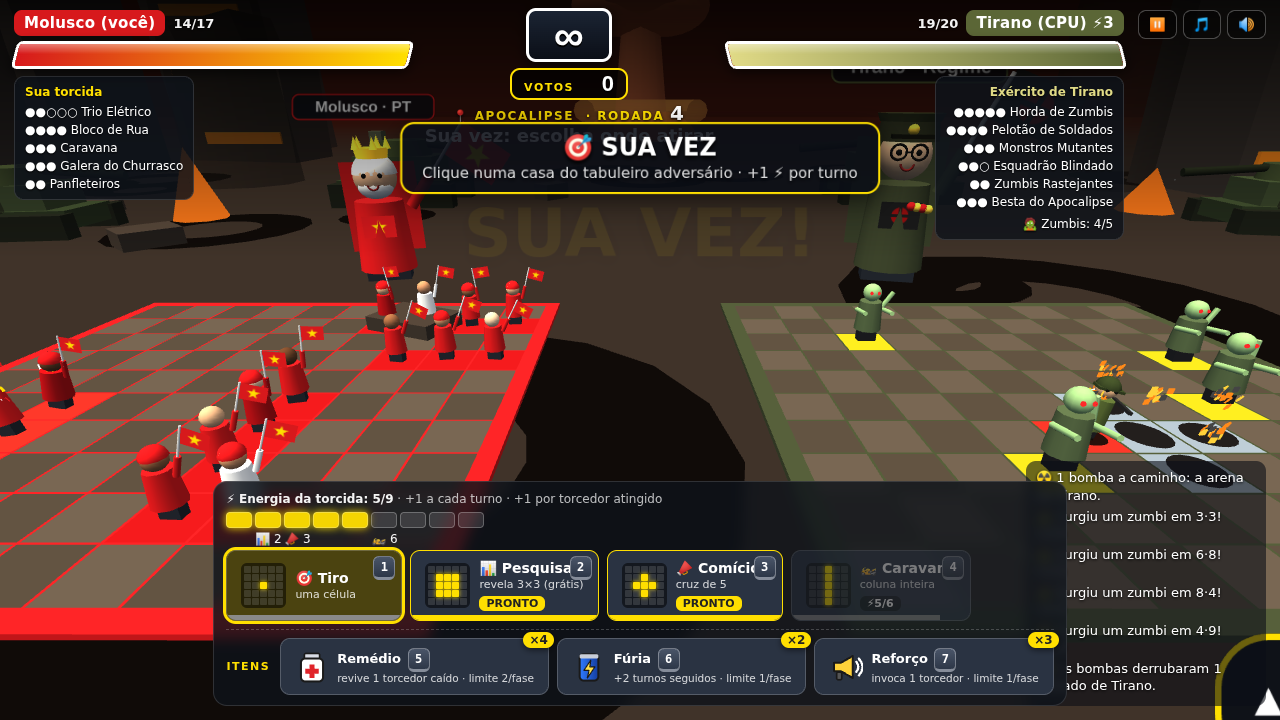
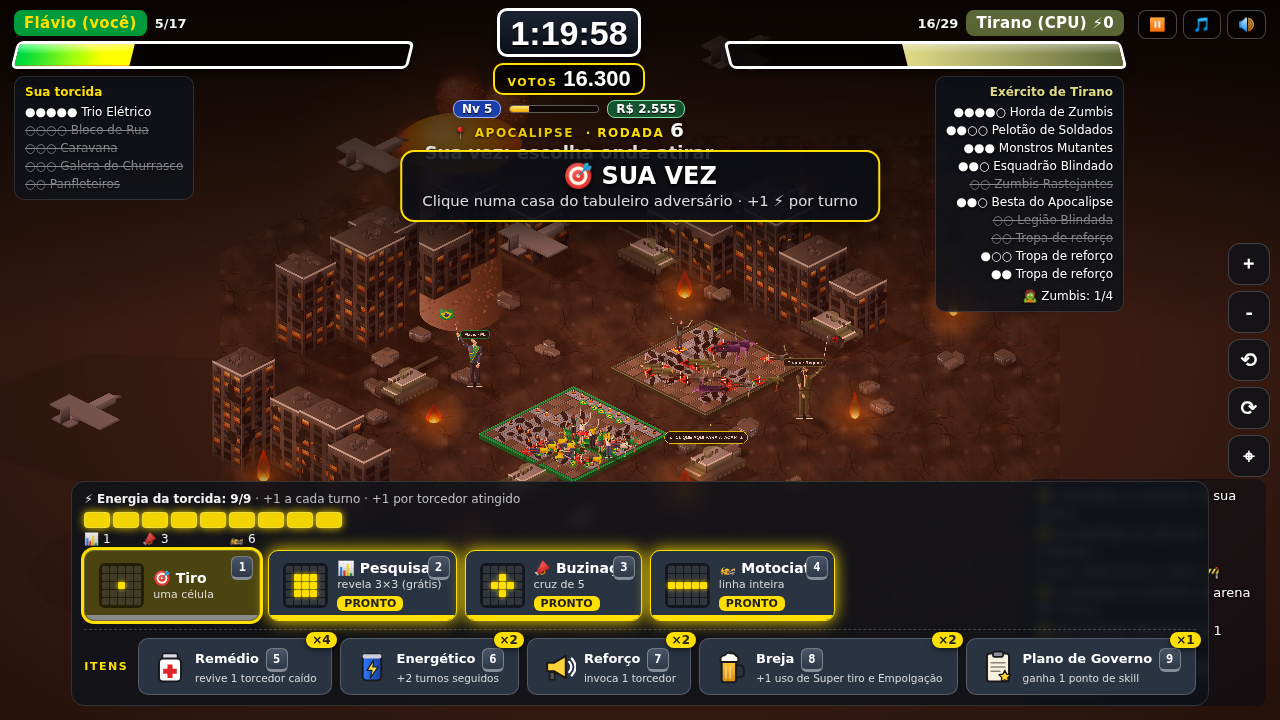
README do remake: novidades, final, cronômetro, itens e novas imagens

diff --git a/README.md b/README.md
@@ -6,11 +6,14 @@
 
 <p align="center">
   Batalha naval das <b>eleições 2026</b>, em 2.5D isométrico com visual realista, direto no navegador.<br>
-  Uma campanha em 7 fases, 2 trilhas, 7 cenários do Brasil, um chefão final e um modo NG+ apocalíptico.
+  Uma campanha em 7 fases, 2 trilhas, 7 cenários do Brasil, um chefão final, um final cinematográfico e um modo NG+ apocalíptico.<br>
+  <sub>Este é o <b>REMAKE</b> do <a href="https://github.com/rpossan/super-presida-batalha">Super Presida Batalha original</a>.</sub>
 </p>
 
 <p align="center">
-  <a href="https://rpossan.github.io/super-presida-batalha/"><b>▶ JOGAR AGORA</b></a>
+  <a href="https://rpossan.github.io/super-batalha-presida-remake/"><b>▶ JOGAR AGORA</b></a>
+  &nbsp;·&nbsp;
+  <a href="#-o-remake">🆕 O que mudou no remake</a>
   &nbsp;·&nbsp;
   <a href="#-aviso-legal-e-isenção-de-uso-de-imagem">Aviso legal</a>
   &nbsp;·&nbsp;
@@ -26,6 +29,26 @@
 > mesmas regras, mesmos poderes, mesma quantidade de fases, adversários e chefão, e uma conclusão para cada trilha.
 > O jogo **não faz propaganda, não pede voto e não toma partido**. Nenhum lado é "o certo" ou "o errado":
 > é só uma brincadeira de estratégia com humor.
+
+---
+
+## 🆕 O remake
+
+Tudo foi refeito sobre a mesma ideia do [jogo original](https://github.com/rpossan/super-presida-batalha), agora em **2.5D isométrico** com [Phaser 4](https://phaser.io/):
+
+| Original | Remake |
+|---|---|
+| Visual simples em 3D de blocos | **Pessoas realistas e articuladas**, cenários com texturas, sombras projetadas e árvores ao vento, veículos e efeitos melhores |
+| Câmera fixa | **Zoom** (roda, pinça, `+`/`-`), **arrastar** para mover e **giro da vista** em 4 ângulos (`Q`/`E`) |
+| Jogador sem progressão | **Progressão de RPG:** votos viram experiência (níveis 1 a 15), pontos de skill, grana e saque, com tela de resultados e *LEVEL UP!* |
+| Skills simples | **Skills com 3 níveis**, trava por fase vencida e ameaça que cresce com o seu poder |
+| 3 itens | **5 itens** (Remédio, Energético, Reforço, **Breja** e **Plano de Governo**), só na loja ou no saque |
+| Reações genéricas | **Vozes e gritos** de quem é atingido (falas em pt-BR) e gemidos nos zumbis |
+| Trilha única | **Uma música por cenário**, gerada por código |
+| Final curto | **Final cinematográfico** de mais de 2 minutos, com a câmera na festa, fogos, a cena da posse, a linha do tempo da campanha e créditos |
+| Sem cronômetro | **Cronômetro de jogo** que registra quanto tempo você levou para zerar, com melhor tempo e tempo por fase |
+
+<p align="center"><img src="docs/img/skills_batalha.png" alt="Batalha com skills e itens" width="800"></p>
 
 ---
 
@@ -52,8 +75,10 @@ quando fazer uma pesquisa para descobrir onde o adversário se esconde e qual po
 | 🌎 **7 cenários do Brasil** | Av. Paulista, Aeroporto de Porto Alegre, Cristo Redentor, Sertão, Amazônia, Balneário Camboriú e Praça dos Três Poderes. |
 | ⚠ **Perigos de cenário** | Bala perdida, fogo no sertão e chuva de flechas na floresta, em quantidade equilibrada ao nível. |
 | 👑 **Chefões únicos** | Sem torcida, com pontos de vida, que mudam de casa a cada acerto e reagem aos seus erros. |
-| 🛒 **Loja, itens e skills** | Compre itens com a grana do saque e aprenda skills com pontos de nível (Empolgação, Super tiro, Guarda-chuva, Instituto de pesquisa, Fôlego). [Veja a seção](#-itens-e-skills). |
+| 🛒 **Loja, itens e skills** | Compre itens com a grana do saque e aprenda skills com pontos de nível (Empolgação, Super tiro, Guarda-chuva, Instituto de pesquisa, Fôlego). [Veja a seção](#-níveis-grana-itens-e-skills). |
+| 🎬 **Final cinematográfico** | Ao vencer o chefão: câmera passeando pela festa com fogos e confete, a cena da posse, a **linha do tempo da sua campanha** (fase a fase, com o tempo de cada uma) e créditos. [Veja a seção](#-o-final). |
 | 🏆 **Nível, votos e recorde** | Votos são experiência (nunca zeram), com tela de resultados e *LEVEL UP!*; combo e recorde pessoal. |
+| ⏱ **Cronômetro de jogo** | O relógio do topo conta o tempo jogado na trilha (pausa e menu não contam, e ele não encerra a partida). Ao zerar, o final mostra o tempo por fase e o melhor tempo. |
 | 🎵 **Trilha sonora própria** | Uma música diferente por cenário (samba, baião, milonga, tambores, marcha…), gerada por código. |
 | 📱 **Funciona no celular** | A câmera acompanha o turno: na sua vez, só a arena do adversário, para dar precisão no toque. |
 
@@ -106,6 +131,33 @@ O chefão é **único, sem torcida, e tem pontos de vida**. A cada acerto ele **
 
 ---
 
+## 🎬 O final
+
+Venceu o chefão? A campanha da sua trilha termina com um **final de mais de 2 minutos** (dá para pular com **Pular ▶**):
+
+1. **A festa na praça:** a câmera do jogo se aproxima da sua torcida, cruza a Praça dos Três Poderes e se afasta, com a torcida vibrando, confete, **fogos de artifício** (inclusive em forma de coração) e legendas.
+2. **A posse:** a cena animada no Planalto, com a rampa, a faixa presidencial (ou o abraço do Flávio com o pai) e fogos por cima.
+3. **A sua jornada:** a **linha do tempo da campanha**, com cada fase vencida, o adversário derrotado e o **tempo gasto em cada uma**, somando o **tempo total**.
+4. **O placar:** votos, recorde de votos e **melhor tempo** da trilha.
+5. **Os créditos**, e o desbloqueio do **NG+: Apocalipse**.
+
+<table>
+  <tr>
+    <td align="center"><img src="docs/img/final_festa.png" width="390"><br><b>A festa na praça</b> · câmera, torcida e fogos</td>
+    <td align="center"><img src="docs/img/final_posse.png" width="390"><br><b>A posse</b> · cena animada no Planalto</td>
+  </tr>
+  <tr>
+    <td align="center"><img src="docs/img/final_jornada.png" width="390"><br><b>A sua jornada</b> · tempo de cada fase</td>
+    <td align="center"><img src="docs/img/final_placar.png" width="390"><br><b>O placar</b> · votos e melhor tempo</td>
+  </tr>
+</table>
+
+### ⏱ Cronômetro de jogo
+O relógio no topo da tela **conta o tempo jogado na trilha** (posicionando e batalhando). Pausa, menu e tela de resultados **não contam**, e o relógio **nunca encerra a partida**:
+ele existe para você medir em quanto tempo consegue zerar o jogo. O tempo de cada fase fica salvo junto com o progresso, e o **melhor tempo** de cada trilha é guardado no navegador.
+
+---
+
 ## ☢ NG+: Apocalipse
 
 Zerou a campanha e viu os créditos? Um ditador surge das cinzas. **O NG+ é desbloqueado depois dos créditos** e é a fase mais difícil do jogo.
@@ -122,7 +174,7 @@ Zerou a campanha e viu os créditos? Um ditador surge das cinzas. **O NG+ é des
 
 <p align="center"><img src="docs/img/ng_batalha.png" alt="Batalha do NG+" width="760"></p>
 
-> A dificuldade acompanha a **ameaça** (veja [Ameaça e equilíbrio](#-ameaça-e-equilíbrio)): quanto mais você investe em skills, mais exércitos, bombas e zumbis o Tirano manda.
+> A dificuldade acompanha a **ameaça** (veja [Ameaça](#-ameaça)): quanto mais você investe em skills, mais exércitos, bombas e zumbis o Tirano manda.
 
 ---
 
@@ -134,6 +186,8 @@ A progressão é de RPG: **votos são experiência**, a **grana** vem do saque e
 - Cada torcedor adversário derrubado rende **votos** (com combo, até **8x**). Os votos **nunca zeram**, nem quando você perde.
 - Ao fim de cada batalha aparece a **tela de resultados** (estilo menu de vitória de RPG clássico): os votos contam, a barra enche,
   o jogador sobe de nível com a animação **LEVEL UP!** e ganha **pontos de skill**. Vencer dá ainda um **bônus de votos**.
+<p align="center"><img src="docs/img/resultados.png" alt="Tela de resultados estilo RPG" width="760"></p>
+
 - Níveis de 1 a 15, com experiência acumulada de **1.000, 3.000, 6.000, 10.000, 15.000…** votos (`500 × n × (n+1)`).
 - Cada nível dá **1 ponto de skill** (e **+1 extra** nos níveis 3, 6, 9, 12 e 15): são 20 pontos no total, e maximizar as 5 skills custa 30. É preciso escolher uma *build*.
 
@@ -150,12 +204,14 @@ mas **não há limite de uso por fase**. Usar um item **não gasta o turno**.
 | Item | Atalho | Efeito | Preço |
 |---|---|---|---|
 | 💊 **Remédio** (cruz vermelha) | `5` | revive 1 torcedor caído da sua torcida | R$ 400 |
-| 🥫 **Fúria** (energético) | `6` | turnos contínuos: joga 3 turnos seguidos (o atual + 2), sem o adversário agir | R$ 1.000 |
+| 🥫 **Energético** | `6` | turnos contínuos: joga 3 turnos seguidos (o atual + 2), sem o adversário agir | R$ 1.000 |
 | 📢 **Reforço** (alto-falante) | `7` | invoca 1 torcedor aleatório na sua arena (+1 de vida) | R$ 650 |
+| 🍺 **Breja** | `8` | +1 uso de **Super tiro** e **Empolgação** na fase atual (precisa ter aprendido uma delas) | R$ 500 |
+| 📜 **Plano de Governo** | `9` | ganha **1 ponto de skill** | R$ 2.500 |
 
 No celular os itens ficam num botão único **🎒 Itens** que abre a lista.
 
-<p align="center"><img src="docs/img/loja_skills.png" alt="Loja de skills" width="640"></p>
+<p align="center"><img src="docs/img/loja_itens.png" alt="Loja de itens" width="520">&nbsp;<img src="docs/img/loja_skills.png" alt="Loja de skills" width="520"></p>
 
 ### ⭐ Skills
 Aprendidas com **pontos de skill** e **liberadas pelo nível do jogador**. Depois de aprendida, a skill vale em **todas as fases e cenários**, das duas trilhas.
@@ -186,7 +242,7 @@ Como a progressão agora é mais lenta e o jogo começa sem itens, os números d
 1. Escolha o lado e a fase.
 2. **Posicione** sua torcida (5 grupos) no seu tabuleiro. `R` ou botão direito gira.
 3. Na sua vez, **clique numa casa** do tabuleiro adversário. Cada tiro arremessa um objeto de protesto.
-4. Acerte para ganhar **votos** e **energia**; gaste a energia nos poderes (`1`–`4`) e use os **itens** (`5`–`7`) com sabedoria. Veja [Itens e skills](#-itens-e-skills).
+4. Acerte para ganhar **votos** e **energia**; gaste a energia nos poderes (`1`–`4`) e use os **itens** (`5`–`9`) com sabedoria. Veja [Níveis, grana, itens e skills](#-níveis-grana-itens-e-skills).
 5. Dispersse toda a torcida adversária (ou derrote o chefão) antes que ele faça o mesmo com a sua.
 
 | Poder | Custo | Efeito |
@@ -198,6 +254,8 @@ Como a progressão agora é mais lenta e o jogo começa sem itens, os números d
 
 Energia: **+1 por turno** e **+1 por torcedor atingido**. No celular, a câmera acompanha o turno.
 
+<p align="center"><img src="docs/img/mobile.png" alt="O jogo no celular" width="760"></p>
+
 ### ⏸ Pausa e modo desenvolvedor
 
 - **Pausa:** botão ⏸ no topo (ou `Esc`) congela o jogo e abre o menu com **Continuar**, **Reiniciar a fase** e
@@ -207,7 +265,7 @@ Energia: **+1 por turno** e **+1 por torcedor atingido**. No celular, a câmera 
 
 ## 🛠 Tecnologia
 
-- [`index.html`](index.html) (lógica e interface) + [`js/`](js) (`gfx.js` renderer, `art.js` sprites, `scenery.js` cenários), renderizados com [Phaser 4](https://phaser.io/) via CDN. Sem build, sem servidor.
+- [`index.html`](index.html) (lógica e interface) + [`js/`](js) (`gfx.js` renderer, `art.js` sprites, `scenery.js` cenários), renderizados com [Phaser 4](https://phaser.io/) via CDN. Sem build e sem backend: é só servir arquivos estáticos (por exemplo, no GitHub Pages).
 - Personagens, cenários, músicas, efeitos sonoros e ilustrações são **gerados por código** (canvas 2D, SVG e Web Audio).
 - Progresso salvo no navegador (`localStorage`), sem servidor: veja [Salvamento](#-salvamento-local).
 
@@ -220,7 +278,7 @@ Para rodar localmente, abra o `index.html` no navegador. Para criar um cenário 
 
 O jogo **salva sozinho no seu navegador** (`localStorage`), mesmo hospedado no GitHub Pages. Nada vai para servidor nenhum.
 
-- **O que é salvo:** fases desbloqueadas e vencidas (nas duas trilhas), nível e votos, grana, pontos de skill, skills aprendidas, itens, recorde e as preferências de som e música.
+- **O que é salvo:** fases desbloqueadas e vencidas (nas duas trilhas), nível e votos, grana, pontos de skill, skills aprendidas, itens, **tempo de jogo de cada fase**, recorde (votos e melhor tempo) e as preferências de som e música.
 - **Quando salva:** entre as fases (ao terminar uma fase, comprar na loja ou voltar ao menu) e ao fechar a aba. Não salva no meio de uma partida: se você fechar durante uma fase, volta ao estado do início dela.
 - **Onde fica:** só naquele navegador e aparelho; não sincroniza entre computador e celular. Limpar os dados do site, usar aba anônima ou trocar de navegador perde o progresso.
 - **Apagar:** botão **"🗑 Apagar progresso salvo"** no menu principal.
@@ -265,5 +323,6 @@ com a chave Pix e o QR code:
 ---
 
 <p align="center">
-  Feito com ☕ e paciência por <b>rpossan</b> · <a href="https://github.com/rpossan/super-presida-batalha">github.com/rpossan/super-presida-batalha</a>
+  Feito com ☕ e paciência por <b>rpossan</b> · <a href="https://github.com/rpossan/super-batalha-presida-remake">github.com/rpossan/super-batalha-presida-remake</a><br>
+  <sub>Remake do <a href="https://github.com/rpossan/super-presida-batalha">Super Presida Batalha original</a></sub>
 </p>
